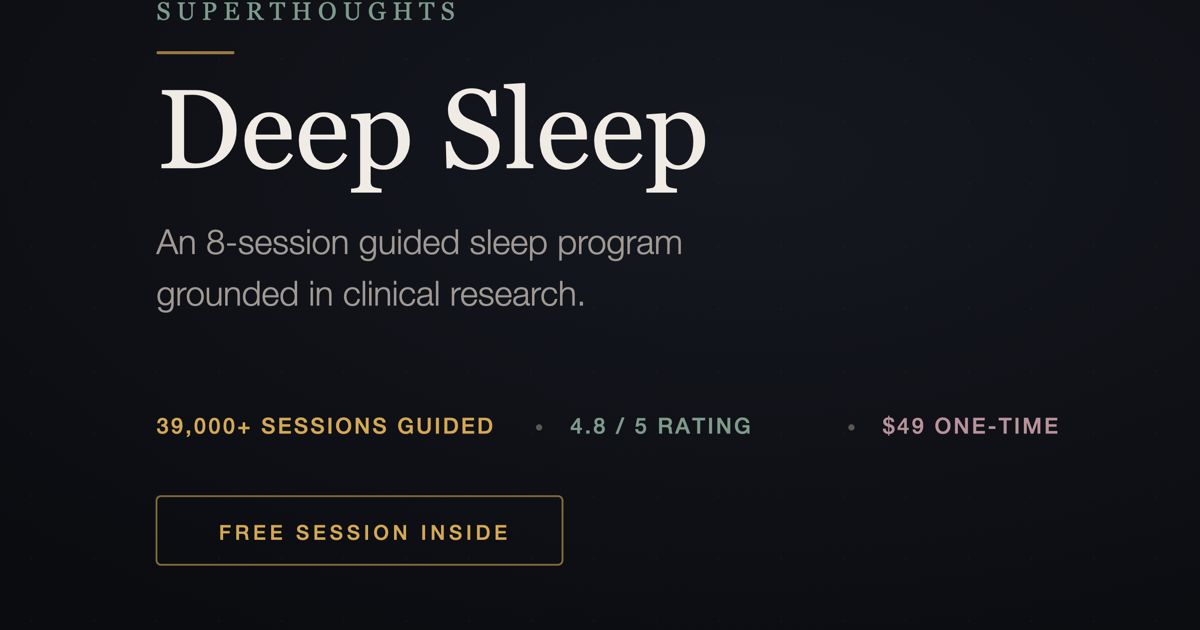
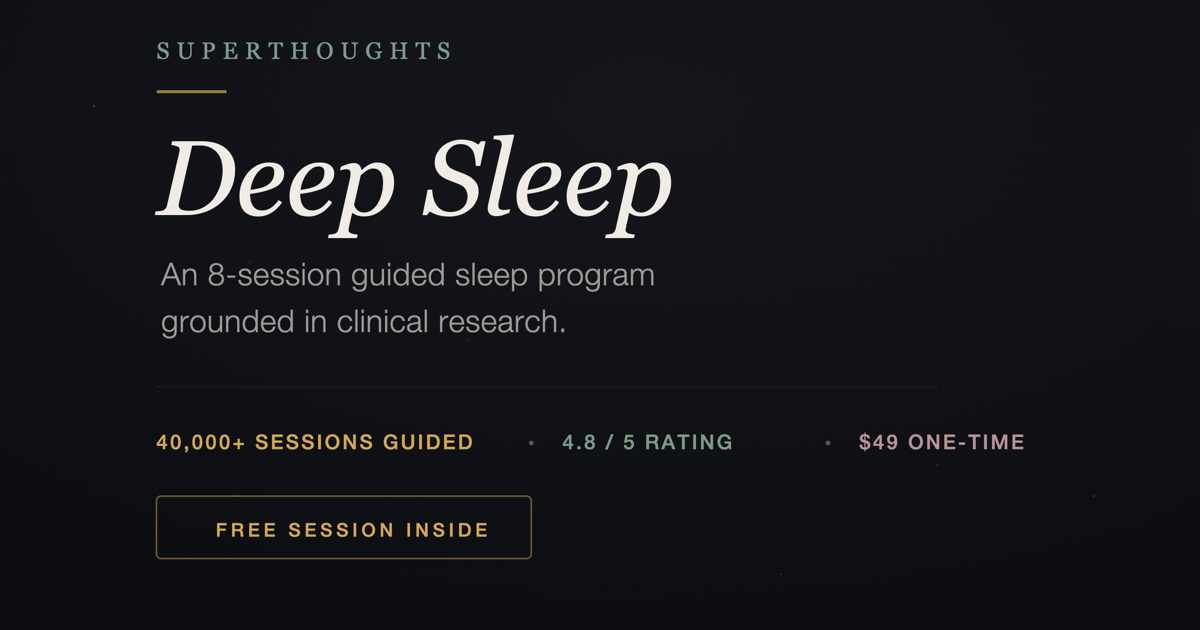
Redesign OG image with stars, breathing orb, and update to 40K+ sessions

diff --git a/index.html b/index.html
@@ -12,7 +12,7 @@
   <meta property="og:type" content="product">
   <meta property="og:url" content="https://deep-sleep.superthoughts.com/">
   <meta property="og:title" content="Deep Sleep — An 8-Session Guided Sleep Program">
-  <meta property="og:description" content="Fall asleep faster, stay asleep longer. Clinically grounded techniques from 25+ years of mindfulness practice. 39,000+ sessions guided. Try a free session.">
+  <meta property="og:description" content="Fall asleep faster, stay asleep longer. Clinically grounded techniques from 25+ years of mindfulness practice. 40,000+ sessions guided. Try a free session.">
   <meta property="og:image" content="https://deep-sleep.superthoughts.com/og-image.png">
   <meta property="og:image:width" content="1200">
   <meta property="og:image:height" content="630">
@@ -47,7 +47,7 @@
     "aggregateRating": {
       "@type": "AggregateRating",
       "ratingValue": "4.8",
-      "ratingCount": "39000",
+      "ratingCount": "40000",
       "bestRating": "5"
     },
     "review": [
@@ -505,7 +505,7 @@
     <div class="marquee">
       <div class="marquee-track">
         <div class="marquee-content">
-          <span>39,000+ sessions guided</span>
+          <span>40,000+ sessions guided</span>
           <div class="marquee-dot"></div>
           <span>4.8 out of 5 rating</span>
           <div class="marquee-dot"></div>
@@ -519,7 +519,7 @@
           <div class="marquee-dot"></div>
         </div>
         <div class="marquee-content" aria-hidden="true">
-          <span>39,000+ sessions guided</span>
+          <span>40,000+ sessions guided</span>
           <div class="marquee-dot"></div>
           <span>4.8 out of 5 rating</span>
           <div class="marquee-dot"></div>
@@ -692,7 +692,7 @@
 
     <!-- Trust strip -->
     <div class="trust-strip">
-      <p>A Superthoughts program &middot; 39,000+ sessions guided &middot; 25+ years of mindfulness practice &middot; Not medical advice</p>
+      <p>A Superthoughts program &middot; 40,000+ sessions guided &middot; 25+ years of mindfulness practice &middot; Not medical advice</p>
     </div>
 
     <!-- Footer -->
